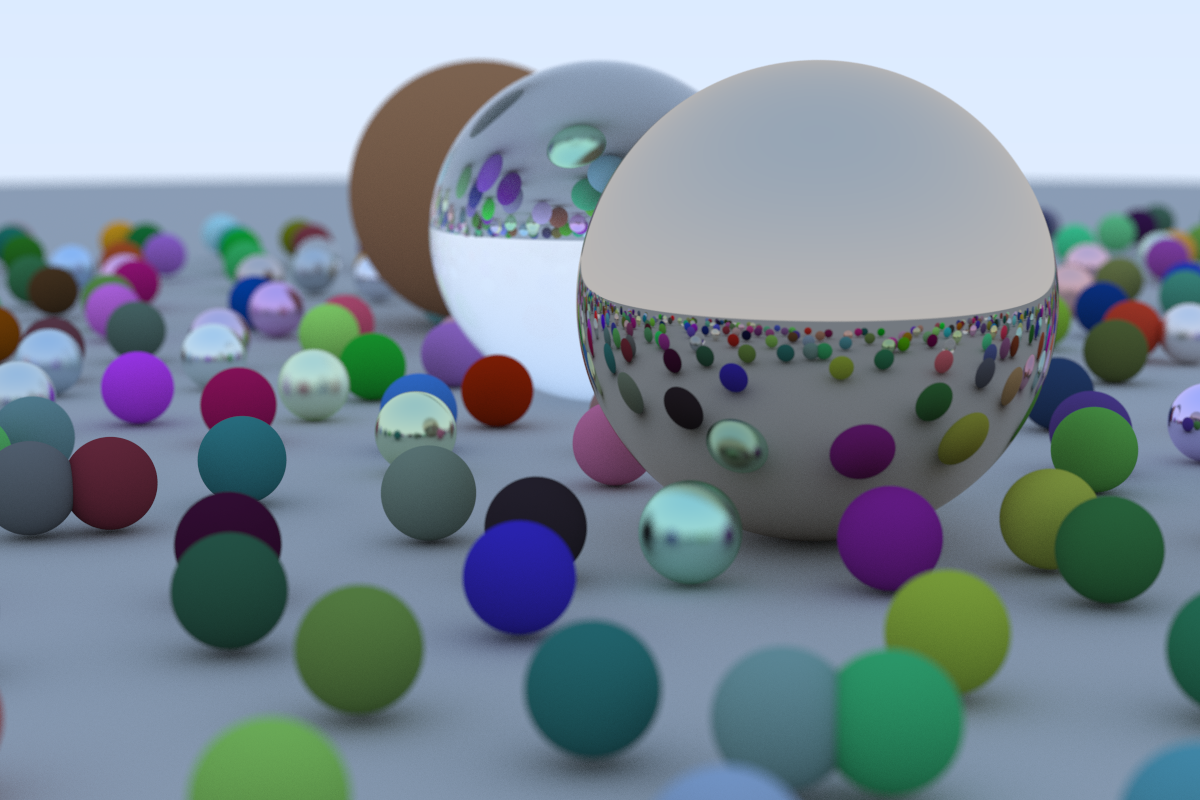
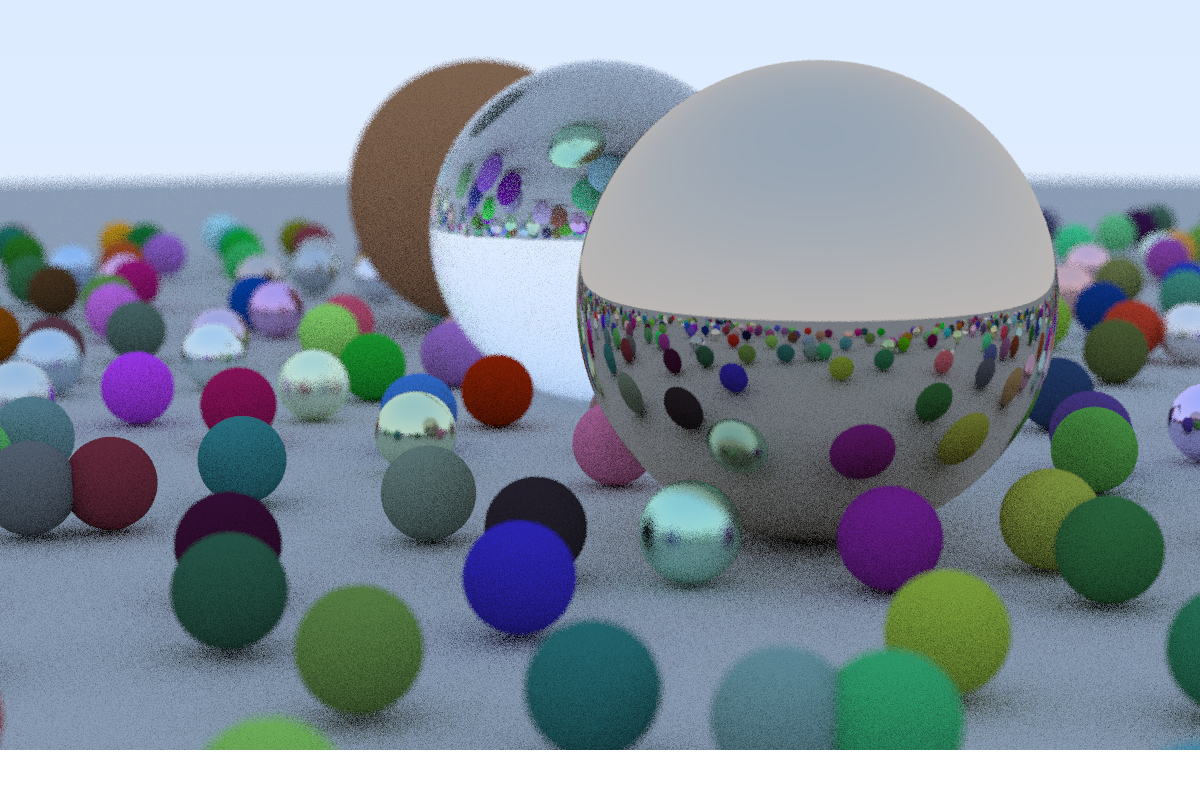
implemented multithreading

diff --git a/RayTracingInOneWeekend/main.cpp b/RayTracingInOneWeekend/main.cpp
@@ -6,13 +6,20 @@
 #include "Utility.hpp"
 #include "stb_image_write.h"
 #include <chrono>
+#include <deque>
 #include <iostream>
 #include <fstream>
+#include <functional>
 #include <format>
 #include <limits>
-#include <vector>
 #include <memory>
+#include <mutex>
+#include <thread>
+#include <type_traits>
+#include <utility>
+#include <vector>
 #include <cstdint>
+#include <cstring>
 
 using World = std::vector<std::unique_ptr<Hittable>>;
 
@@ -53,6 +60,44 @@ using World = std::vector<std::unique_ptr<Hittable>>;
 
 [[nodiscard]] Color gammaCorrection(const Color& color) {
     return Color{ std::sqrt(color.r), std::sqrt(color.g), std::sqrt(color.b) };
+}
+
+[[nodiscard]] auto createWorkerLambda(int startLine,
+                                      int endLine,
+                                      int imageWidth,
+                                      int imageHeight,
+                                      const World& world,
+                                      std::vector<std::uint8_t>& imageBuffer,
+                                      std::mutex& imageBufferMutex,
+                                      int samplesPerPixel,
+                                      int maxDepth) {
+    return [imageWidth, imageHeight, &world, localBuffer = imageBuffer, &imageBuffer, &imageBufferMutex,
+            samplesPerPixel, startLine, endLine, maxDepth]() mutable {
+        std::cout << std::format("Calculating from line {} to line {}...\n", startLine, endLine) << std::flush;
+        for (auto y = startLine; y <= endLine; ++y) {
+            for (int x = 0; x < imageWidth; ++x) {
+                Color pixelColor{};
+                for (int sample = 0; sample < samplesPerPixel; ++sample) {
+                    const auto u = (static_cast<double>(x) + Random::randomDouble()) / static_cast<double>(imageWidth);
+                    const auto v = (static_cast<double>(y) + Random::randomDouble()) / static_cast<double>(imageHeight);
+                    const auto ray = Camera::getRay(u, v);
+                    pixelColor += rayColor(ray, world, maxDepth);
+                }
+                pixelColor /= static_cast<double>(samplesPerPixel);
+                pixelColor = gammaCorrection(pixelColor);
+                writeColor(localBuffer, imageWidth, x, y, pixelColor);
+            }
+        }
+        constexpr auto pixelSize = sizeof(std::uint8_t) * 4;
+        const auto offset = (imageWidth * startLine) * pixelSize;
+        const auto size = (endLine - startLine + 1) * imageWidth * pixelSize;
+        {
+            // write the data into the outside buffer
+            auto bufferLock = std::scoped_lock{ imageBufferMutex };
+            std::memcpy(imageBuffer.data() + offset, localBuffer.data() + offset, size);
+        }
+        std::cout << std::format("Finished calculating lines {} to {}...\n", startLine, endLine) << std::flush;
+    };
 }
 
 int main() {
@@ -102,22 +147,42 @@ int main() {
     const auto startTime = std::chrono::high_resolution_clock::now();
 
     std::vector<std::uint8_t> imageBuffer(static_cast<std::size_t>(imageWidth * imageHeight * 4));
+    std::mutex imageBufferMutex;
 
-    // pixel data
-    for (auto y = imageHeight - 1; y >= 0; --y) {
-        std::cerr << std::format("Scanlines remaining: {}\n", y) << std::flush;
-        for (int x = 0; x < imageWidth; ++x) {
-            Color pixelColor{};
-            for (int sample = 0; sample < samplesPerPixel; ++sample) {
-                const auto u = (static_cast<double>(x) + Random::randomDouble()) / static_cast<double>(imageWidth);
-                const auto v = (static_cast<double>(y) + Random::randomDouble()) / static_cast<double>(imageHeight);
-                const auto ray = Camera::getRay(u, v);
-                pixelColor += rayColor(ray, world, maxDepth);
+    const auto numThreads =
+            (std::thread::hardware_concurrency() == 0 ? 4 : std::thread::hardware_concurrency() * 7 / 8);
+    const auto numTasks = numThreads * 2;
+    const int linesPerTask = imageHeight / numTasks;
+    std::deque<std::function<void(void)>> tasks;
+
+    int currentEndLine = linesPerTask;
+    while (currentEndLine < imageHeight - 1) {
+        const auto newEndLine = std::min(currentEndLine + linesPerTask, imageHeight - 1);
+        tasks.push_back(createWorkerLambda(currentEndLine, newEndLine, imageWidth, imageHeight, world, imageBuffer,
+                                           imageBufferMutex, samplesPerPixel, maxDepth));
+        currentEndLine = newEndLine;
+    }
+    std::mutex mTasksMutex;
+    std::cout << std::format("Total image height: {}\n", imageHeight);
+    std::vector<std::jthread> workerThreads;
+    for (std::remove_cv_t<decltype(numThreads)> i = 0; i < numThreads; ++i) {
+        workerThreads.emplace_back([&tasks, &mTasksMutex]() {
+            while (true) {
+                std::function<void(void)> task;
+                {
+                    auto lock = std::scoped_lock{ mTasksMutex };
+                    if (tasks.empty()) {
+                        break;
+                    }
+                    task = std::move(tasks.front());
+                    tasks.pop_front();
+                }
+                task();
             }
-            pixelColor /= static_cast<double>(samplesPerPixel);
-            pixelColor = gammaCorrection(pixelColor);
-            writeColor(imageBuffer, imageWidth, x, y, pixelColor);
-        }
+        });
+    }
+    for (auto& thread : workerThreads) {
+        thread.join();
     }
     const auto endTime = std::chrono::high_resolution_clock::now();
     const auto duration = std::chrono::duration<double>(endTime - startTime).count();
